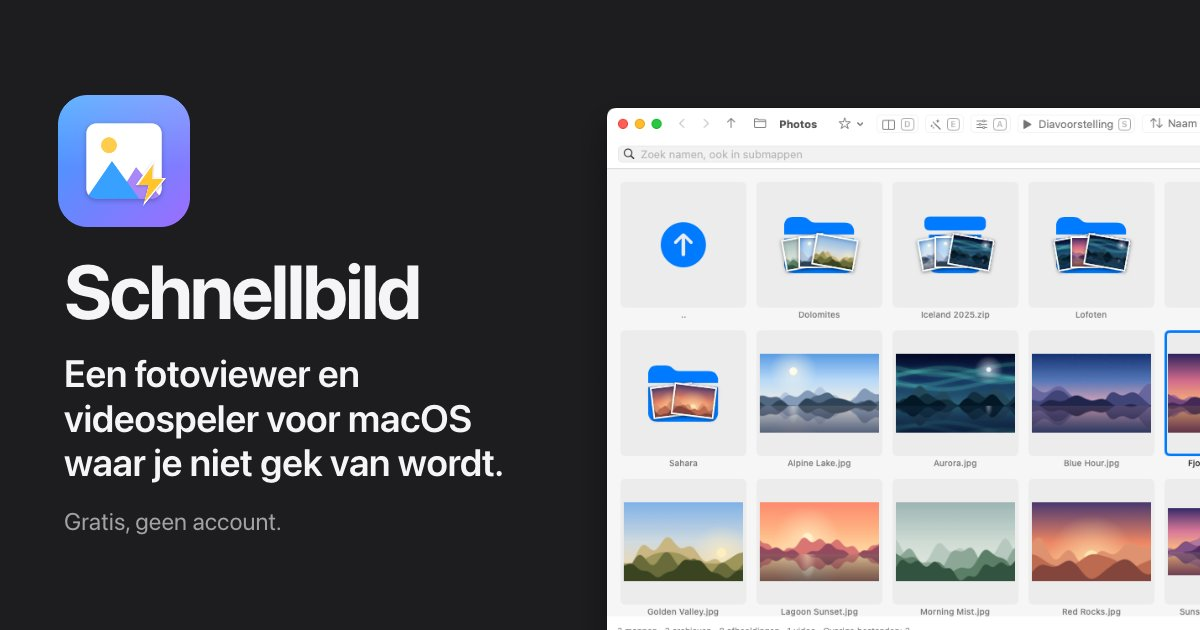
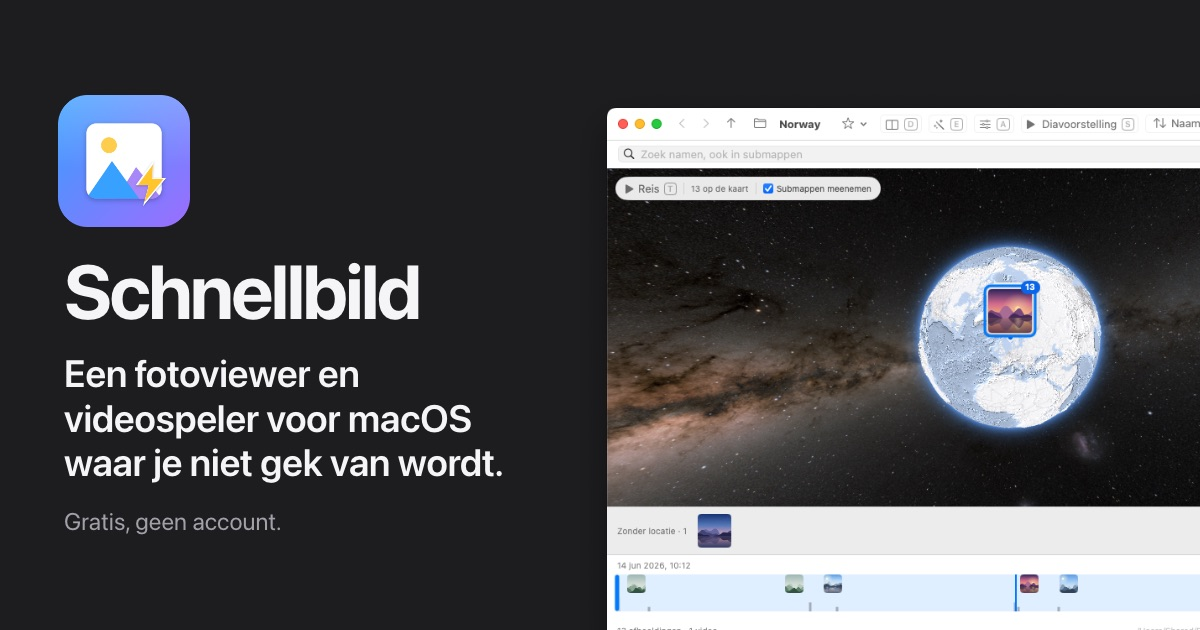
Website: link preview cards with the globe, drawn by headless Chrome
make_site_images.py og render [<lang> …] serves the repository on 127.0.0.1,
has Google Chrome draw site/og/card.html in a 1201 × 1000 window (headless
Chrome lays a page out shorter than its window), cuts the card from the top
left (sips centres a crop at offset 0, 0, hence the card's inset=1) and saves
JPEG at quality 80 (114 to 128 kB). Each language's card shows its own globe
shot, as the home page's hero does.

diff --git a/site/og/card.html b/site/og/card.html
@@ -8,6 +8,8 @@
 <title>card</title>
 <style>
   html, body { margin: 0; width: 1200px; height: 630px; overflow: hidden; }
+  /* The card clips its screenshot itself, so the page is never taller than 630 px */
+  .card { position: absolute; left: 0; top: 0; width: 1200px; height: 630px; overflow: hidden; }
   body {
     background: #1d1d1f;
     color: #f5f5f7;
@@ -24,6 +26,7 @@
 </style>
 </head>
 <body>
+<div class="card">
 <div class="text">
   <img class="icon" src="/Resources/icon_1024.png" alt="">
   <h1>Schnellbild</h1>
@@ -31,9 +34,12 @@
   <p class="note" id="note"></p>
 </div>
 <img class="shot" id="shot" alt="">
+</div>
 <script>
   const query = new URLSearchParams(location.search);
   const lang = query.get("lang") || "en";
+  // inset=1: one empty column on the left, for a renderer that crops from x = 1 (sips can't crop from 0, 0)
+  if (query.get("inset")) document.documentElement.style.marginLeft = query.get("inset") + "px";
   document.documentElement.lang = lang;
   document.getElementById("shot").src = "/docs/screenshots/" + (query.get("shot") || "grid-light.webp");
   fetch("/site/i18n/" + lang + ".json").then(r => r.json()).then(async t => {

diff --git a/Scripts/make_site_images.py b/Scripts/make_site_images.py
@@ -220,13 +220,66 @@ def icons():
     print("icons written to docs/")
 
 
-def card_shot(code):
-    own = DOCS / "screenshots" / f"{HERO_SHOT}-light-{code}.webp"
-    return own.name if code != "en" and own.exists() else f"{HERO_SHOT}-light.webp"
+def card_shot(code, motif=None):
+    """The screenshot on a language's card: the home page's hero (the globe where the
+    language has its own, else the grid), light."""
+    for name in ([motif] if motif else [GLOBE_SHOT, HERO_SHOT]):
+        own = DOCS / "screenshots" / (f"{name}-light.webp" if code == "en" else f"{name}-light-{code}.webp")
+        if own.exists():
+            return own.name
+    return f"{HERO_SHOT}-light.webp"
+
+
+CHROME = Path("/Applications/Google Chrome.app/Contents/MacOS/Google Chrome")
+# Headless Chrome lays a page out shorter than its window (--window-size=1200,630 gave
+# innerHeight 543), so the window is taller and the card is cut from its top left. sips
+# centres a crop whose offset is 0, 0, so the card is drawn one pixel to the right (inset=1)
+# and cut from x = 1.
+CHROME_WINDOW = (OG_SIZE[0] + 1, 1000)
+
+
+def og_render(codes, motif=None):
+    """Each card drawn by Chrome itself (headless, its own screenshot at 1200 × 630) from
+    site/og/card.html, served from the repository on this Mac only, then saved as JPEG
+    with sips at the highest quality from 80 that stays under OG_LIMIT."""
+    import functools, http.server, threading
+    if not CHROME.exists():
+        sys.exit(f"Google Chrome is missing ({CHROME}); draw the cards by hand: python3 Scripts/make_site_images.py og")
+    if not ICON.exists():
+        sys.exit("Resources/icon_1024.png is missing: swift Scripts/make_icon.swift Resources/icon_1024.png")
+    class Quiet(http.server.SimpleHTTPRequestHandler):
+        def log_message(self, *args):
+            pass
+    handler = functools.partial(Quiet, directory=str(ROOT))
+    server = http.server.ThreadingHTTPServer(("127.0.0.1", 0), handler)
+    threading.Thread(target=server.serve_forever, daemon=True).start()
+    port = server.server_address[1]
+    try:
+        with tempfile.TemporaryDirectory() as tmp:
+            for code in codes:
+                png = Path(tmp) / f"{code}.png"
+                url = f"http://127.0.0.1:{port}/site/og/card.html?lang={code}&shot={card_shot(code, motif)}&inset=1"
+                subprocess.run([str(CHROME), "--headless=new", "--disable-gpu", "--hide-scrollbars",
+                                f"--user-data-dir={tmp}/profile", "--force-device-scale-factor=1",
+                                "--virtual-time-budget=10000", f"--window-size={CHROME_WINDOW[0]},{CHROME_WINDOW[1]}",
+                                f"--screenshot={png}", url], check=True, capture_output=True)
+                sips("-c", OG_SIZE[1], OG_SIZE[0], "--cropOffset", 0, 1, png)
+                if png_size(png) != OG_SIZE:
+                    sys.exit(f"{code}: Chrome drew {png_size(png)}, not {OG_SIZE}")
+                out = DOCS / "og" / f"{code}.jpg"
+                for quality in (80, 75, 70):
+                    sips("-s", "format", "jpeg", "-s", "formatOptions", quality, png, "--out", out)
+                    if out.stat().st_size <= OG_LIMIT:
+                        break
+                print(f"docs/og/{code}.jpg  {card_shot(code, motif)}  {out.stat().st_size // 1000} kB")
+    finally:
+        server.shutdown()
 
 
 def og():
-    print(f"""1. Serve the repository on this Mac only:
+    print(f"""Drawn by Chrome: python3 Scripts/make_site_images.py og render [<lang> …]
+By hand:
+1. Serve the repository on this Mac only:
      python3 -m http.server {PORT} --bind 127.0.0.1 --directory {ROOT}
 2. In the Playwright browser set the viewport to {OG_SIZE[0]} × {OG_SIZE[1]}, open each URL below
    and take a JPEG screenshot of the viewport (not the full page); the page sets
@@ -266,5 +319,7 @@ def check():
 if __name__ == "__main__":
     if sys.argv[1:2] == ["import"] and len(sys.argv) > 2:
         import_shots(sys.argv[2:])
+    elif sys.argv[1:3] == ["og", "render"]:
+        og_render(sys.argv[3:] or LANGUAGES)
     else:
         {"icons": icons, "shots": shots, "og": og, "check": check}.get(sys.argv[1] if len(sys.argv) > 1 else "", lambda: sys.exit(__doc__))()

diff --git a/CLAUDE.md b/CLAUDE.md
@@ -370,7 +370,7 @@ AVKit stays for the native formats: both decode through VideoToolbox, but AVKit 
   - Only fall back to local launches when CI genuinely can't answer — say so first.
   - **Keep the README current.** Whenever a feature, key binding or anything else users see changes, check README.md (features, keyboard tables, screenshots) and the F1 help (`ShortcutsHelpView.swift`) and update them in the same commit. Build/test instructions live in `BUILDING.md`; the README sells the product.
   - **Screenshots:** after a visible UI change run `gh workflow run screenshots.yml -f language=all` (or one language: `en`, `de`, `pt-BR`, `zh-Hans` …, a folder of `Resources/Localization` without `.lproj`; a job per language side by side, `fail-fast: false`, artifacts `screenshots-<lang>`), look at every picture yourself (words cut off or running over, wrong characters, English left in the UI), then download the artifacts (`gh run download <id> -n screenshots-<lang> -D <folder>/<lang>`) and run `python3 Scripts/make_site_images.py import <folder>/*`: it writes them as lossless WebP masters into `docs/screenshots/`, English as `<name>-light.webp` / `-dark.webp` (README shows them via `<picture>`, light or dark to match the reader), every other language as `<name>-light-<lang>.webp` / `-dark-<lang>.webp` with the website's code, only those the website shows (`HERO_SHOT`, `FEATURE_SHOTS`) and the light ones the App Store shows (`STORE_SHOTS`, all three in `make_site_images.py`). **Screenshots only as WebP in the repo, never PNG; App Store PNGs are made at upload.** (Icons, favicons and `docs/og/*.jpg` stay as they are.) `Scripts/make_sample_media.swift` draws the sample photos and videos (no external images, the same on every run; their names stay English in every language); `UITests/ReadmeScreenshots.swift` drives the app (skipped unless `SCREENSHOTS=1`; the workflow's input `test` runs one of its tests, e.g. `ReadmeScreenshots/testAtlasScreenshots`: `atlas` and `tour` on the sample library's Norway trip) and asks for each picture over the pasteboard; it finds the words it clicks in the app's own translations (`Resources/Localization`, bundled with the UI tests too), and `launch` gives the app `-AppleLanguages (<lang>)` and the matching `-AppleLocale` (`SchnellbildUITestCase.locale(of:)`: `de_DE`, `pt_BR`, `zh-Hans_CN` …), so dates and numbers are written as there. The workflow's shell runs `screencapture` (only it holds the screen recording permission) and `Scripts/shoot_window.swift` composes: the `-l` capture **with the window shadow** on a transparent background, the content from the screen so sheets and menus are in it. The runner's screen is 1024×768 at scale 1 (its virtual display offers no HiDPI mode, also not with a display override), so the window opens at 960×640, the Dock is hidden and the pictures are 1x (1072×752 with the shadow). Never crop windows without their shadow. The video still is taken while the video plays: the website lays the moving video over it (`python3 Scripts/make_video_animation.py`, run after new video stills: the sample video as `docs/screenshots/video-motion-960.webp` / `-480.webp`, one for every language and theme, and `site/video-motion.json`, where the video lies in the stills and the holes that keep the badge and the control bar in front, all read from the stills, as are the colour curves that make ffmpeg's decode match what AVKit shows). The App Store pictures are made at upload (`Scripts/appstore_connect.swift`, in a temporary folder) from the light masters, the same six for every language (`AppStore/metadata/app.json` → `screenshots`: `shots`, and `languages` per Store locale: en-* → `en`, fr-FR / fr-CA → `fr`, es-ES / es-MX → `es`, pt-BR / pt-PT → `pt-BR`, no → `nb`, nl-NL → `nl`, de-DE → `de`, the others by their own code) with `Scripts/make_store_screenshots.swift <out dir> docs/screenshots/<name>-light[-<lang>].webp …` (2880×1800 PNG, the shot with its shadow on one flat colour, RGB without alpha; the same masters give the same PNGs, so an unchanged set isn't uploaded again).
-  - **Website** <https://schnellbild.haushoppe-its.de/>: GitHub Pages from `main`, folder `docs/` (`CNAME`, `.nojekyll`). The pages are built: `python3 Scripts/build_site.py` writes `docs/index.html` (English), `docs/<lang>/` for the app's other 19 languages and each one's privacy policy (`privacy/`, German `de/datenschutz/`, linked from the App Store per language through `AppStore/metadata/<locale>/privacy_url.txt`) from the structure in the script and the words in `site/i18n/<lang>.json` (English is the master; a missing key falls back to it and fails the build; `--check` tells whether `docs/` is current). The privacy policy's menu names come from the app's own `Localizable.strings`. `docs/site.css` and `docs/site.js` are hand-written: flat colours (no gradients), system fonts, nothing from other servers; motion (rising in, the hero screenshot straightening while scrolling, slight parallax, counting numbers, view transitions between pages) stops with "reduce motion". Colours are tokens at the top of `site.css`, one set per theme, and what lies higher shows it: page, then cards, number tiles, the safety band and footer, then the safety points inside the band, then buttons and the bar's controls, the language menu and keys; in the dark each height is a lighter flat grey (Material's dark theme: `#121212` ground, white laid over it per height, text 87 % / 60 % white, the accent the softer light blue `#8cb7f2`, shadows only where something floats), in the light white with a border or a faint shadow. Tiles are for short facts only: running text (the features, the text pages) sits on the page itself like an article, with room around it. Every text reaches 4.5:1 on the surface it sits on. Screenshots: `docs/screenshots`, a language's own `-light-<lang>` / `-dark-<lang>` ones where they exist (every language, `screenshots.yml -f language=all`), else English light / dark; the real size of each master goes into its `width` / `height`. The features and their pictures go in the same order (`FEATURE_SHOTS` in `make_site_images.py`); a feature whose picture has no English master yet (`atlas`) is shown as text alone (`.feature.text-only`). The home page's hero is the Atlas view's globe (`GLOBE_SHOT`, `atlas-globe`, from `ReadmeScreenshots/testAtlasScreenshots`) in a language that has its own (English: the master), else the grid (`HERO_SHOT`); the link preview cards (`docs/og`) and the JSON-LD screenshot stay the grid. The page loads them as WebP in the width its place needs: `docs/screenshots/sized/<name>-<width>.<hash>.webp` (lossy, quality 90, lossless alpha) in 400, 640, 860 and the master's own 1072 px (`<hash>` the start of the master's SHA-256), offered through `<picture>` with one `<source>` per theme, `srcset` and `sizes`, the lossless master as the `img`'s `src` (`HERO_SIZES` / `FEATURE_SIZES` in `build_site.py`, to match `site.css`); the hero loads first (`fetchpriority="high"`), the rest `loading="lazy"`. After a master changes, run `python3 Scripts/make_site_images.py shots` (makes what's missing, deletes what belongs to no master; needs `cwebp`, Homebrew's `webp`) and commit the variants: Pages has no build step, and `build_site.py --check` fails while one is missing. The video's still carries the moving video (`img.motion` in `span.playing`: an animated WebP as a plain lazy `<img>`, placed in percent of the still and cut with an even-odd `clip-path` around the badge and the control bar; none with "reduce motion"). A click opens it large (`dialog.lightbox` in `site.js`, the widest variant of the theme shown, the video's still with the video moving over it, ← → step through all, Esc or a click closes). Light / dark: the system's choice, light when there is none; the switch in the bar (`button.theme`) keeps a choice in `localStorage` (the head's inline script sets `data-theme` before the page is drawn; picking what the system shows forgets it again), and `site.js` points the screenshots' and the browser bar's media queries at it. The privacy page says so. It sells what the README sells: change a text in `en.json` and every language, rebuild, keep the README in step. Look at it with `python3 -m http.server` in `docs/` and the Playwright browser: phone (390), tablet (820) and large (1920) width, light and dark, no horizontal scrolling. CI ignores the website (`docs/**`, `site/**`, its scripts) and `AppStore/**`. SEO and link previews: the build also writes `404.html`, the sitemaps (`sitemap.xml` is an index of `sitemap-<lang>.xml`, one per language: every indexable page the build makes, sorted by its `<html lang>`, with the hreflang alternates from its head; a page's lastmod moves only when its HTML changes; `robots.txt` names the index), `site.webmanifest`, and each page's title / description (`seoTitle`, `seoDescription`, `keywords` per language), canonical, hreflang with x-default, Open Graph / Twitter tags and schema.org JSON-LD (SoftwareApplication with the version from `Info.plist`, breadcrumbs on the privacy policy). `Scripts/make_site_images.py`: `icons` makes the favicons, touch icons, the bar's `icon-64.png` and the WebP icons (`icon-64.webp`, `icon.webp`, the PNGs their fallback) from `Resources/icon_1024.png` (made by `build_app.sh`, or `swift Scripts/make_icon.swift Resources/icon_1024.png`) with `sips` and `cwebp`; `import` the masters from screenshots.yml's artifacts, `shots` their variants; `og` prints the steps to draw the link preview images `docs/og/<lang>.jpg` (1200 × 630, from `site/og/card.html` in the Playwright browser; redo them when a tagline or the hero screenshot changes); `check` checks them. Speed, accessibility, best practices and SEO: Lighthouse 13 (a dev dependency installed in a scratchpad, not globally, never `npx`; it was at `/private/tmp/claude-502/-Users-johanneshoppe-Work-haushoppeits/a89669b4-99e8-45c7-b5f5-5f2e227e4e5d/scratchpad/lighthouse/node_modules/.bin/lighthouse`, which a reboot clears) against `python3 -m http.server <port> --bind 127.0.0.1` in `docs/`, mobile by default and `--preset=desktop`: `lighthouse http://127.0.0.1:<port>/ --only-categories=performance,accessibility,best-practices,seo --output=json --output=html --output-path=<dir>/home-mobile --chrome-flags="--headless=new"` (needs `node` from `/usr/local/bin` on the `PATH` and `CHROME_PATH` pointing at Google Chrome; `--blink-settings=preferredColorScheme=1` in the Chrome flags measures the light theme, else it follows the Mac). Locally the Python server neither compresses nor sets cache headers, so Lighthouse reports both; Pages gzips and sends `max-age=600`, which can't be changed there.
+  - **Website** <https://schnellbild.haushoppe-its.de/>: GitHub Pages from `main`, folder `docs/` (`CNAME`, `.nojekyll`). The pages are built: `python3 Scripts/build_site.py` writes `docs/index.html` (English), `docs/<lang>/` for the app's other 19 languages and each one's privacy policy (`privacy/`, German `de/datenschutz/`, linked from the App Store per language through `AppStore/metadata/<locale>/privacy_url.txt`) from the structure in the script and the words in `site/i18n/<lang>.json` (English is the master; a missing key falls back to it and fails the build; `--check` tells whether `docs/` is current). The privacy policy's menu names come from the app's own `Localizable.strings`. `docs/site.css` and `docs/site.js` are hand-written: flat colours (no gradients), system fonts, nothing from other servers; motion (rising in, the hero screenshot straightening while scrolling, slight parallax, counting numbers, view transitions between pages) stops with "reduce motion". Colours are tokens at the top of `site.css`, one set per theme, and what lies higher shows it: page, then cards, number tiles, the safety band and footer, then the safety points inside the band, then buttons and the bar's controls, the language menu and keys; in the dark each height is a lighter flat grey (Material's dark theme: `#121212` ground, white laid over it per height, text 87 % / 60 % white, the accent the softer light blue `#8cb7f2`, shadows only where something floats), in the light white with a border or a faint shadow. Tiles are for short facts only: running text (the features, the text pages) sits on the page itself like an article, with room around it. Every text reaches 4.5:1 on the surface it sits on. Screenshots: `docs/screenshots`, a language's own `-light-<lang>` / `-dark-<lang>` ones where they exist (every language, `screenshots.yml -f language=all`), else English light / dark; the real size of each master goes into its `width` / `height`. The features and their pictures go in the same order (`FEATURE_SHOTS` in `make_site_images.py`); a feature whose picture has no English master yet (`atlas`) is shown as text alone (`.feature.text-only`). The home page's hero is the Atlas view's globe (`GLOBE_SHOT`, `atlas-globe`, from `ReadmeScreenshots/testAtlasScreenshots`) in a language that has its own (English: the master), else the grid (`HERO_SHOT`); the link preview cards (`docs/og`) and the JSON-LD screenshot stay the grid. The page loads them as WebP in the width its place needs: `docs/screenshots/sized/<name>-<width>.<hash>.webp` (lossy, quality 90, lossless alpha) in 400, 640, 860 and the master's own 1072 px (`<hash>` the start of the master's SHA-256), offered through `<picture>` with one `<source>` per theme, `srcset` and `sizes`, the lossless master as the `img`'s `src` (`HERO_SIZES` / `FEATURE_SIZES` in `build_site.py`, to match `site.css`); the hero loads first (`fetchpriority="high"`), the rest `loading="lazy"`. After a master changes, run `python3 Scripts/make_site_images.py shots` (makes what's missing, deletes what belongs to no master; needs `cwebp`, Homebrew's `webp`) and commit the variants: Pages has no build step, and `build_site.py --check` fails while one is missing. The video's still carries the moving video (`img.motion` in `span.playing`: an animated WebP as a plain lazy `<img>`, placed in percent of the still and cut with an even-odd `clip-path` around the badge and the control bar; none with "reduce motion"). A click opens it large (`dialog.lightbox` in `site.js`, the widest variant of the theme shown, the video's still with the video moving over it, ← → step through all, Esc or a click closes). Light / dark: the system's choice, light when there is none; the switch in the bar (`button.theme`) keeps a choice in `localStorage` (the head's inline script sets `data-theme` before the page is drawn; picking what the system shows forgets it again), and `site.js` points the screenshots' and the browser bar's media queries at it. The privacy page says so. It sells what the README sells: change a text in `en.json` and every language, rebuild, keep the README in step. Look at it with `python3 -m http.server` in `docs/` and the Playwright browser: phone (390), tablet (820) and large (1920) width, light and dark, no horizontal scrolling. CI ignores the website (`docs/**`, `site/**`, its scripts) and `AppStore/**`. SEO and link previews: the build also writes `404.html`, the sitemaps (`sitemap.xml` is an index of `sitemap-<lang>.xml`, one per language: every indexable page the build makes, sorted by its `<html lang>`, with the hreflang alternates from its head; a page's lastmod moves only when its HTML changes; `robots.txt` names the index), `site.webmanifest`, and each page's title / description (`seoTitle`, `seoDescription`, `keywords` per language), canonical, hreflang with x-default, Open Graph / Twitter tags and schema.org JSON-LD (SoftwareApplication with the version from `Info.plist`, breadcrumbs on the privacy policy). `Scripts/make_site_images.py`: `icons` makes the favicons, touch icons, the bar's `icon-64.png` and the WebP icons (`icon-64.webp`, `icon.webp`, the PNGs their fallback) from `Resources/icon_1024.png` (made by `build_app.sh`, or `swift Scripts/make_icon.swift Resources/icon_1024.png`) with `sips` and `cwebp`; `import` the masters from screenshots.yml's artifacts, `shots` their variants; `og render [<lang> …]` draws the link preview images `docs/og/<lang>.jpg` (1200 × 630, `site/og/card.html` with the language's tagline and its globe shot, else the grid, `card_shot`) with Google Chrome headless (the repository served on 127.0.0.1, the card cut from the window's top left, JPEG by `sips` at the highest quality from 80 under 300 kB; needs `Resources/icon_1024.png`), `og` alone prints the steps to draw them by hand ( redo them when a tagline or the hero screenshot changes); `check` checks them. Speed, accessibility, best practices and SEO: Lighthouse 13 (a dev dependency installed in a scratchpad, not globally, never `npx`; it was at `/private/tmp/claude-502/-Users-johanneshoppe-Work-haushoppeits/a89669b4-99e8-45c7-b5f5-5f2e227e4e5d/scratchpad/lighthouse/node_modules/.bin/lighthouse`, which a reboot clears) against `python3 -m http.server <port> --bind 127.0.0.1` in `docs/`, mobile by default and `--preset=desktop`: `lighthouse http://127.0.0.1:<port>/ --only-categories=performance,accessibility,best-practices,seo --output=json --output=html --output-path=<dir>/home-mobile --chrome-flags="--headless=new"` (needs `node` from `/usr/local/bin` on the `PATH` and `CHROME_PATH` pointing at Google Chrome; `--blink-settings=preferredColorScheme=1` in the Chrome flags measures the light theme, else it follows the Mac). Locally the Python server neither compresses nor sets cache headers, so Lighthouse reports both; Pages gzips and sends `max-age=600`, which can't be changed there.
   - **Alternatives pages** ("Schnellbild as an alternative to …", `Scripts/site_alternatives.py`, called by `build_site.py`): one page per compared program and language under `/<lang>/<alternativesSlug>/<slug>/` (the slug in `site/i18n/<lang>.json`: the language's own word where it writes in Latin letters, `alternatives` elsewhere), and an overview `/<lang>/<alternativesSlug>/` by section (image viewers, video players, comic readers, file managers, Apple and photo management, coming from Windows), each list ordered by what people search for in that language (`site/alternatives/demand.json`: monthly Keyword Planner searches for "<name> mac", "<name> for mac", "<name> alternative", summed over the language's markets; the bare name doesn't count, it would make "Imagine" or "Google Photos" look huge). The home page links the 8 most searched of the language (`altTitle`) and `modelsText` links pages with `{alt:<slug>}`; the footer links the overview. A program that runs on a Mac gets the full comparison (`page: "matrix"`): a summary, where it is stronger (`wins`, from the research) and where Schnellbild is (the first rows of `WE_WIN` it has and the other hasn't), then every row with a symbol (yes, partly with its note, no, left out on purpose with Schnellbild's reason, does not apply) and numbered sources; a cell found nowhere (`how: "unverified"`) leaves out the row for that program, and the page says how many. A Windows program (or one whose Mac build is dead, like GOM Player) gets a short page for switchers (`page: "switcher"`): a joke per language (`jokes`, written for each language, never at the program's expense), what its fans like and how Schnellbild does it (`LIKED`, with the keys), where it stays ahead, what is left out on purpose. Every page, the overview included, starts with the same hero (`hero`: the page's h1, `ui.introWhat` saying what Schnellbild is, the download buttons, the screenshot of the page's kind from `SECTION_SHOT` in light and dark, loaded first), then `why` (`ui.whyTitle`, the kind's sentence `ui.kind<Kind>` and the page's own lead). File managers say Schnellbild isn't one (`fileManager`). A map program (Google Earth, `page: "map"`, section `maps`, its screenshot the Atlas view's globe) gets its own comparison: what it is good at, what Schnellbild offers and doesn't do, and the rows of its product file's `map_matrix` (each with Google's page as evidence and the sentence quoted there in `quote`) beside Schnellbild's values in `ours`; the rows' words are `mapRows` in `i18n/<lang>.json`, the page's words its product entry there (`h1`, `seoTitle`, `description`, `keywords`, `lead`, `offers`, `lacks`, `facts`, `notes`). Each page has its title, description and keywords from the language's templates (`ui.*SeoTitle`, with the market's own words for "alternative", "Mac", "free"), canonical, hreflang over all 20 languages, the sitemaps, JSON-LD (`WebPage` about Schnellbild and the program by its facts, breadcrumbs; the overview a `CollectionPage` with an `ItemList`; no ratings) and a trademark line. Data in `site/alternatives/`: `rows.json` (the rows in their groups), `schnellbild.json` (Schnellbild's value per row, with where the README or code says so), `products/<slug>.json` (one program: facts, `page`, `section`, and per row `value`, `note`, `evidence`, `how`; research of November 2026), `dropped.json` (programs left out and rows suggested, with reasons), `i18n/<lang>.json` (every word: page texts, row labels, `how` / `why` / `note` per row, and per program its name as known in that market, vendor, summary, strengths, price, version, platforms and the short notes of its partly cells; English is the master and the build fails on a missing key). To update a program: change its cells in `products/<slug>.json` (new value, the source in `evidence`, `how`), then its words in `i18n/en.json` (a partly cell needs a note) and in every language; a new program needs a product file, an entry in every `i18n/<lang>.json` and its demand. When Schnellbild gains or drops a feature, change `schnellbild.json` and the row's `how` / `why`.
   - **Check anything visual yourself on CI with screenshots** (e.g. `dmg-preview.yml`), don't hand it to the user to look at. A GitHub runner is a clean Mac: what works there works everywhere, while the dev Mac has much installed that users don't have.
 - Releases are **Developer ID signed and notarized** (see CI & release). CI
